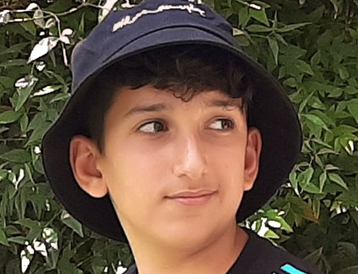
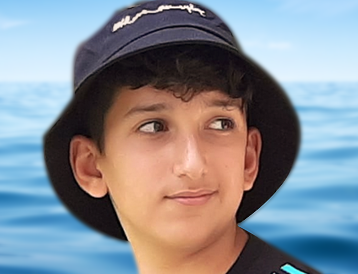
...

diff --git a/index.html b/index.html
@@ -62,7 +62,7 @@
           </div>
         </div>
         <div class="right">
-          <img class="profile-img" src="images/profile.jpg">
+          <img class="profile-img" src="site/images/my self.png">
         </div>
       </div>
     </div>
